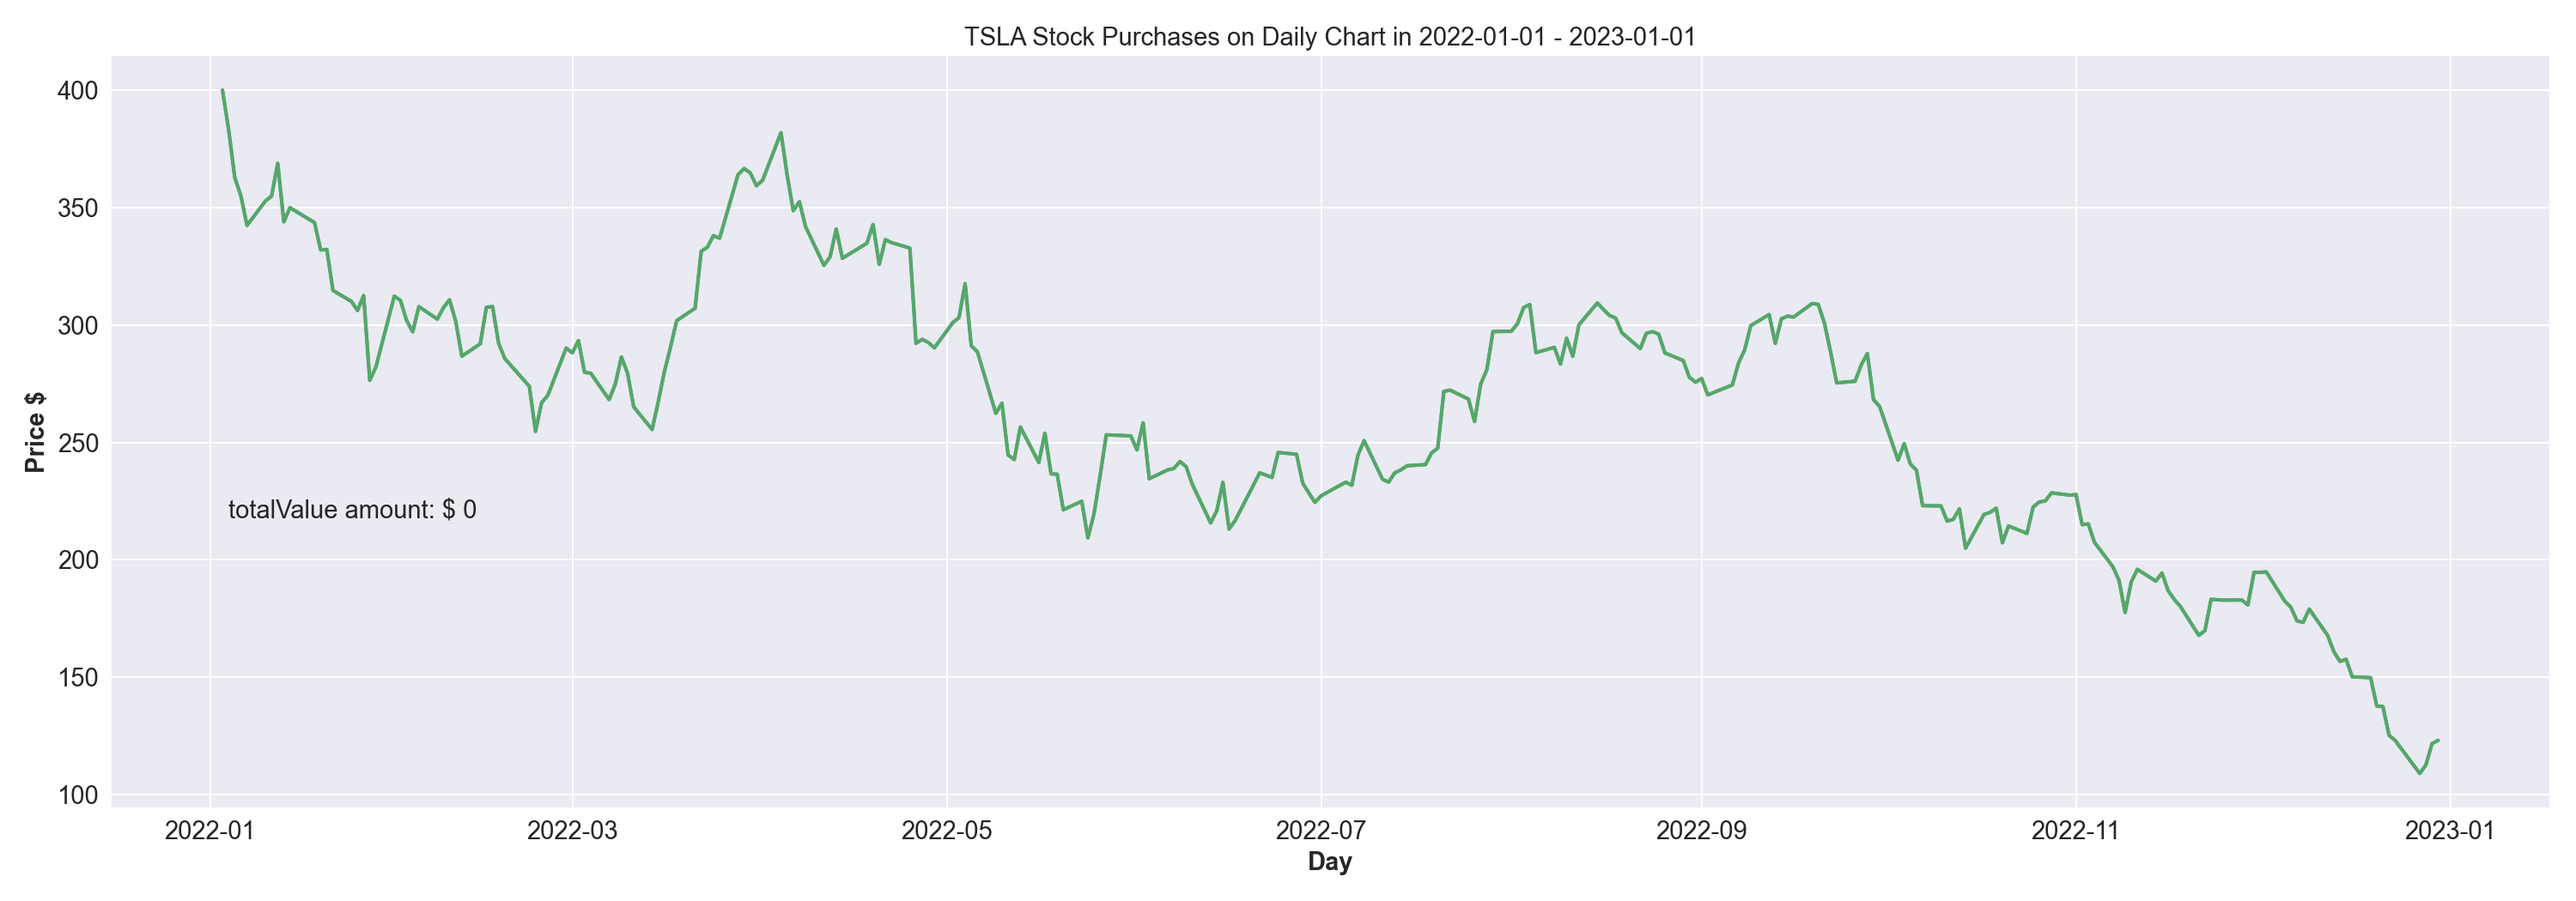
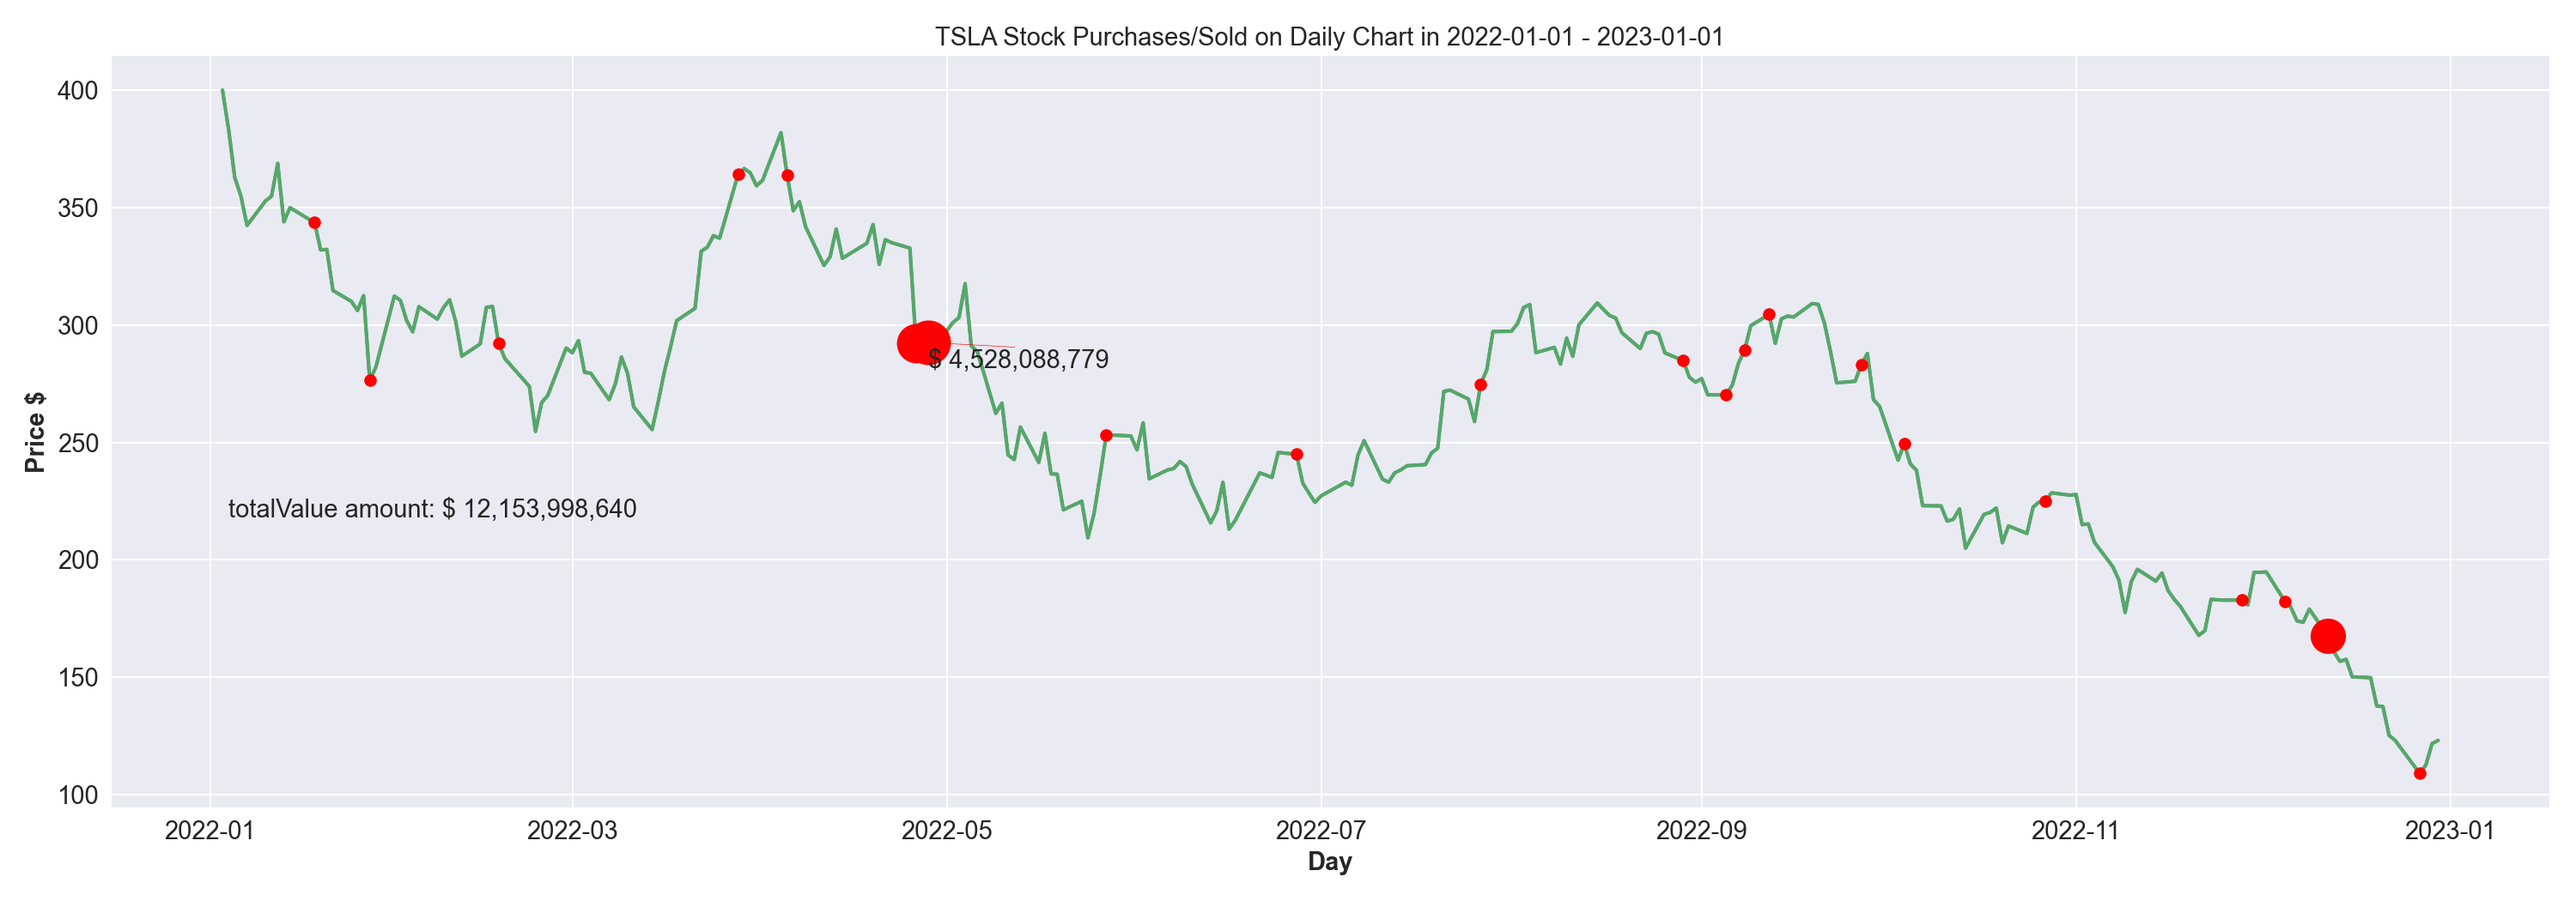
fixed

diff --git a/src/insider_trading_analysis/controllers/core_controller.py b/src/insider_trading_analysis/controllers/core_controller.py
@@ -1,12 +1,21 @@
+from datetime import datetime, timedelta
+
+import pandas as pd
 from api.client.services.core_service import SecClient
-from .flatten import normalize_transactions
-from .clean import attach_mapping, filter_valid_exchanges, remove_price_outliers, finalize
-from .analysis import total_sec_acq_dis_day, companies_bs_in_period, companies_bs_in_period_by_person
-from views.plots import plot_amount_assets_acquired_disposed, plot_distribution_trans_codes, plot_n_most_companies_bs, plot_n_most_companies_bs_by_person, plot_line_chart, print_chart
 from models.db import FileHelper
 from utils.utils import iterate_months
-from datetime import datetime, timedelta
-import pandas as pd
+from views.plots import (plot_acquired_disposed_line_chart,
+                         plot_amount_assets_acquired_disposed,
+                         plot_distribution_trans_codes, plot_line_chart,
+                         plot_n_most_companies_bs,
+                         plot_n_most_companies_bs_by_person)
+
+from .analysis import (companies_bs_in_period,
+                       companies_bs_in_period_by_person, total_sec_acq_dis_day)
+from .clean import (attach_mapping, filter_valid_exchanges, finalize,
+                    remove_price_outliers)
+from .flatten import normalize_transactions
+
 
 class CoreController:
     def __init__(self, conf):
@@ -86,41 +95,43 @@ class CoreController:
         acquired_by_insider, disposed_by_insider = companies_bs_in_period_by_person(df, args.year)
         plot_n_most_companies_bs_by_person(acquired_by_insider, disposed_by_insider, args)
 
-    def do_plot_line_chart_ticker(self, args):
+    def do_plot_acquired_disposed_line_chart(self, args):
         df = self.get_insider_transactions(args)
         ticker = args.ticker
         if not self.file.contains(ticker):
             ohcl = self.sec_client.fetch_ticker_ohlc(ticker, args.start, args.end, '1d')
             self.file.df_csv_dump(ticker, ohcl, index=True)
-        ohcl = self.file.df_csv_read(ticker,index_col='Date', parse_dates=True)
-        #ohcl = ohcl.drop_duplicates()
-        # check for duplicate
-        # ohcl.index.duplicated().sum()
-        # see duplicates
-        # ohcl[ohcl.index.duplicated(keep=False)]
+
         #Collapse duplicate daily rows
-        ohcl = ohcl.groupby(level=0).first()
         start_date = datetime.strptime(args.start, "%Y-%m-%d").date()
         end_date = datetime.strptime(args.end, "%Y-%m-%d").date()
-        #df.sort_values(by=["filedAt"]), will be re-arranged after set_index
-        #df = df.set_index('filedAt')
-        #df = df.sort_index()
-        #df = df[df['issuerTicker'] == ticker]
         ticker_filter = (df["issuerTicker"]==ticker) & \
-        (df["acquiredDisposed"]=="A") & \
         (df["periodOfReport"].dt.date >=start_date) & \
         (df["periodOfReport"].dt.date <=end_date) #& \
-        #(df["name"].str.contains("BERKSHIRE"))
-        #df = df.sort_index()
-        ticker_acquired = df[ticker_filter].groupby("periodOfReport")["totalValue"].sum()
+        #ticker_acquired = df[ticker_filter].groupby("periodOfReport")["totalValue"].sum()
+        ticker_acquired = df[ticker_filter].groupby("periodOfReport").agg({
+            "totalValue": "sum",
+            "acquiredDisposed": "first"
+        })
+        
         #ticker_acquired = ticker_acquired.set_index('periodOfReport')
         # remove time format 2022-03-14 00:00:00+00:00 -> 2022-03-14
         ticker_acquired.index = ticker_acquired.index.tz_convert(None)
-        ticker_acquired.index.names = ['Date']        
+        ticker_acquired.index.names = ['Date']
+
+
         #ticker_all = pd.merge(ohcl, ticker_acquired, on='Date', how='outer').fillna(0)
-        ticker_all = ohcl.join(ticker_acquired, how="outer").fillna(0)
+        ohcl = self.file.df_csv_read(ticker,index_col='Date', parse_dates=True)
+        ohcl = ohcl.groupby(level=0).first()
+        #plot_line_chart(ohcl, args)
+        ticker_all = ohcl.join(ticker_acquired, how="outer")
+        # forward-fill OHLC values
+        # Missing values in these columns only happen on non-trading days (holidays/weekends).
         #plot_line_chart(ohcl,ticker_all, args)
-        print_chart(ticker_all, f"{ticker} Stock Purchases on Daily Chart in {args.start} - {args.end}", args=args)
+        ticker_all[["Open", "High", "Low", "Close", "Volume"]] = (
+        ticker_all[["Open", "High", "Low", "Close", "Volume"]].ffill()
+        )
+        plot_acquired_disposed_line_chart(ticker_all, f"{ticker} Stock Purchases/Sold on Daily Chart in {args.start} - {args.end}", args=args)
 
     def build_dataset(self, args):
         mapping = self.get_exchange_mapping()

diff --git a/src/insider_trading_analysis/views/plots.py b/src/insider_trading_analysis/views/plots.py
@@ -133,27 +133,33 @@ def plot_line_chart(ohcl, args):
     if args.show:
         plt.show()
 
-def print_chart(ticker_series, title="", ylabel="Price $", args=None):
+def plot_acquired_disposed_line_chart(ticker_series, title="", ylabel="Price $", args=None):
     ax = ticker_series["Close"].plot(figsize=(20, 7))
     ax.xaxis_date()
     ax.plot(ticker_series.index, ticker_series['Close'], lw=2)
 
     max_acquired = ticker_series['totalValue'].max()
-
+    x = 0
     # draw markers onto price time series. Marker size correlates to news volume.
     for index, row in ticker_series.iterrows():
         if row['totalValue'] == 0:
             continue
 
+        x += 1
         markersize = (row['totalValue'] / max_acquired) * 25
 
         if markersize < 7:
             markersize = 7
 
+        color = 'green' if row['acquiredDisposed'] == 'A' else 'red'
+        if x == 1:
+            color = 'green'
+        if x == 2:
+            color = 'red'
         ax.plot([index], 
                 [row['Close']], 
                 marker='o', 
-                color='red', 
+                color=color, 
                 markersize=markersize)
 
         # overlay arrow pointer at largest news volume 

diff --git a/src/insider_trading_analysis/cli.py b/src/insider_trading_analysis/cli.py
@@ -22,9 +22,9 @@ def handle_n_most_companies_bs_by_person(args):
     ctrl = CoreController(Config())
     ctrl.do_plot_n_most_companies_bs_by_person(args)
 
-def handle_plot_line_chart_ticker(args):
+def handle_plot_acquired_disposed_line_chart(args):
     ctrl = CoreController(Config())
-    ctrl.do_plot_line_chart_ticker(args)
+    ctrl.do_plot_acquired_disposed_line_chart(args)
 
 def main():
     parser = argparse.ArgumentParser(prog="Insider trading analysis", description="Analyze insider trading data CSV")
@@ -95,7 +95,7 @@ def main():
     plot_line_chart_ticker.add_argument("--save", action='store_true', default=False, help="Save plot")
     plot_line_chart_ticker.add_argument("--outpath", required='--save' in sys.argv, help="path for save plot")
     plot_line_chart_ticker.add_argument("--show", action='store_true', required=False, help="Show plot")
-    plot_line_chart_ticker.set_defaults(func=handle_plot_line_chart_ticker) 
+    plot_line_chart_ticker.set_defaults(func=handle_plot_acquired_disposed_line_chart) 
 
     args = parser.parse_args()
     args.func(args)
